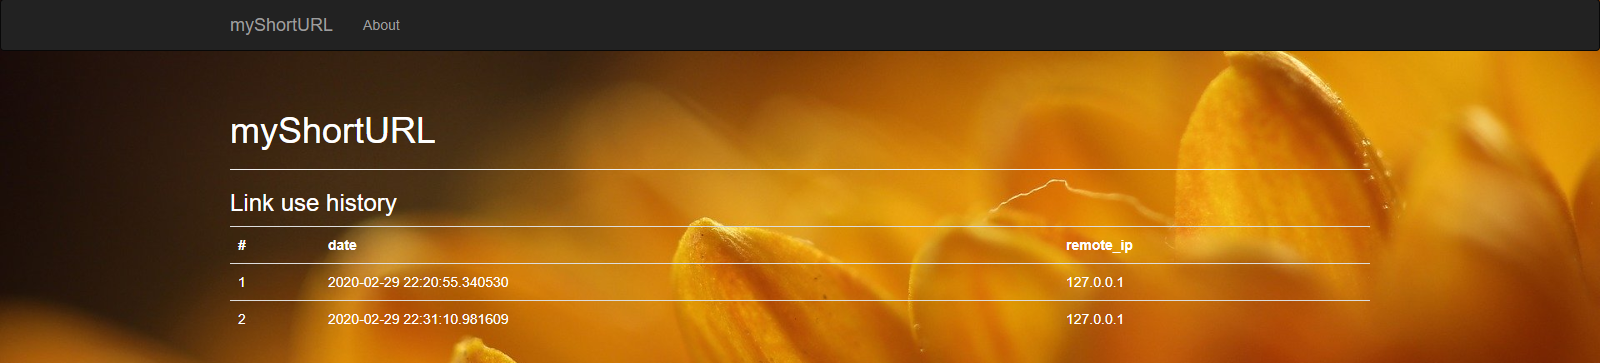
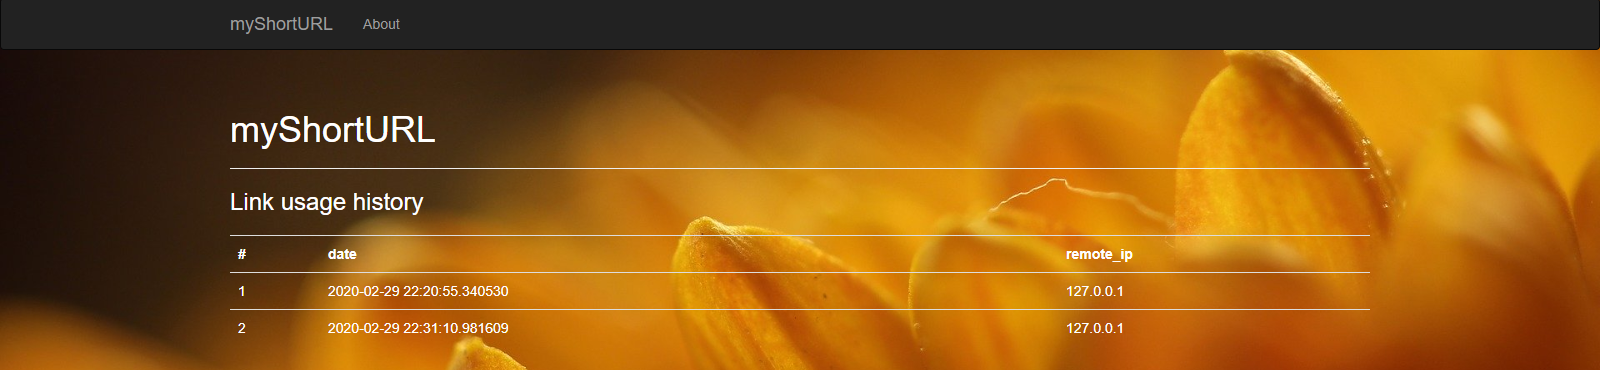
history of link use

diff --git a/templates/stat.html b/templates/stat.html
@@ -6,21 +6,23 @@
 <div class="page-header">
     <h1>myShortURL</h1>
 </div>
-<h3 class="display-3">Link use history</h3>
+<h3 class="display-3">Link usage history</h3>
 
-<table class="table">
-    <tr>
-        <th>#</th>
-        <th>date</th>
-        <th>remote_ip</th>
-    </tr>
-    {% for stat in stats %}
-    <tr>
-        <td>{{ loop.index }}</td>
-        <td>{{ stat.date }}</td>
-        <td>{{ stat.remote_ip }}</td>
-    </tr>
-    {% endfor %}
-</table>
+<div>
+    <table class="table">
+        <tr>
+            <th>#</th>
+            <th>date</th>
+            <th>remote_ip</th>
+        </tr>
+        {% for stat in stats %}
+        <tr>
+            <td>{{ loop.index }}</td>
+            <td>{{ stat.date }}</td>
+            <td>{{ stat.remote_ip }}</td>
+        </tr>
+        {% endfor %}
+    </table>
+</div>
 
 {% endblock %}
